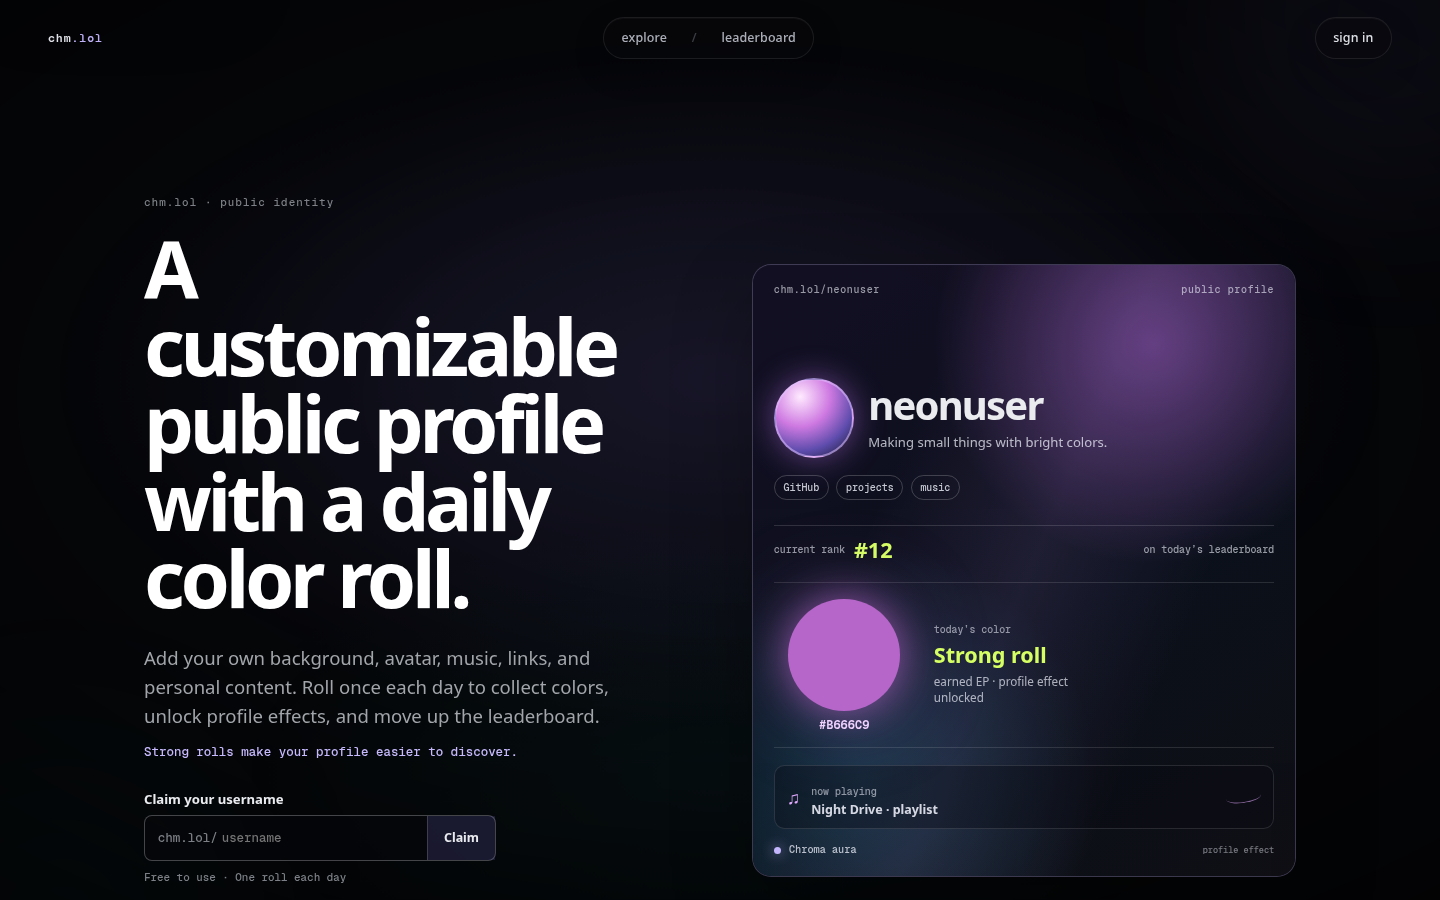
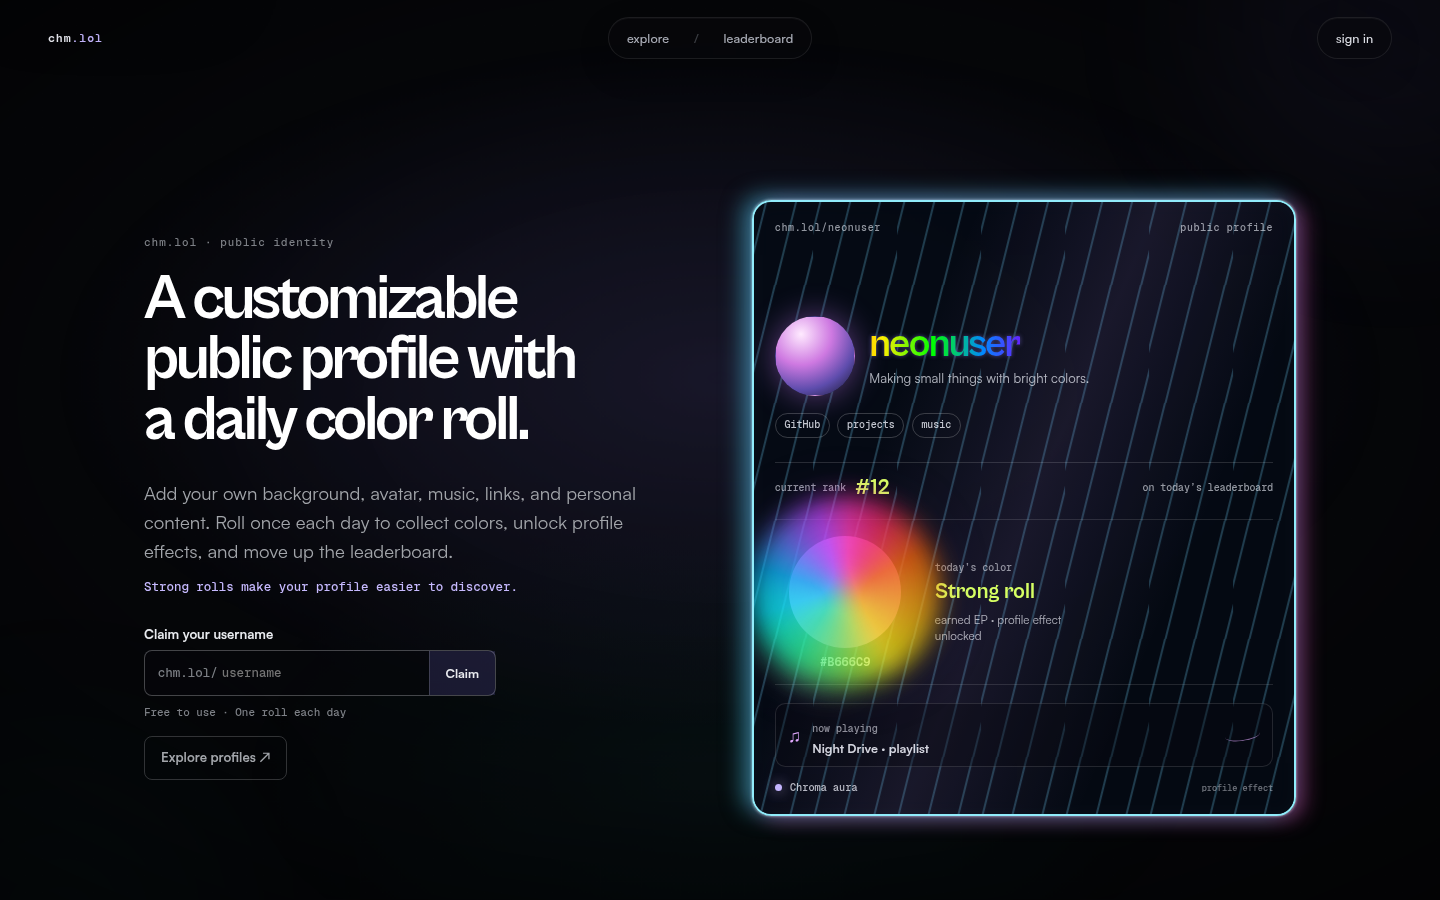
Refine homepage hero profile presentation

diff --git a/src/lib/HomeRollShowcase.svelte b/src/lib/HomeRollShowcase.svelte
@@ -1,15 +1,15 @@
-<div class="home-showcase" aria-label="A customized public profile preview">
-  <div class="home-showcase__background" aria-hidden="true"></div>
+<div class="home-showcase border-prism-anim" aria-label="A customized public profile preview">
+  <div class="home-showcase__background studio-profile-cosmetic-bg profile-effect-rain" aria-hidden="true"></div>
   <div class="home-showcase__topline"><span>chm.lol/neonuser</span><span>public profile</span></div>
   <div class="home-showcase__identity">
-    <span class="home-showcase__avatar" aria-hidden="true"></span>
-    <div><strong>neonuser</strong><p>Making small things with bright colors.</p></div>
+    <span class="home-showcase__avatar frame-diamond-anim" aria-hidden="true"></span>
+    <div><strong class="home-showcase__name name-spectrum-anim" data-text="neonuser">neonuser</strong><p>Making small things with bright colors.</p></div>
   </div>
   <div class="home-showcase__links"><span>GitHub</span><span>projects</span><span>music</span></div>
   <div class="home-showcase__rank"><span>current rank</span><strong>#12</strong><span>on today’s leaderboard</span></div>
   <div class="home-showcase__roll">
     <div class="home-showcase__color" aria-label="Today’s color, purple">
-      <span aria-hidden="true"></span><strong>#B666C9</strong>
+      <span class="home-showcase__color-orb roll-chroma-anim" aria-hidden="true"></span><strong>#B666C9</strong>
     </div>
     <div><p>today’s color</p><strong>Strong roll</strong><small>earned EP · profile effect unlocked</small></div>
   </div>
@@ -18,14 +18,14 @@
 </div>
 
 <style>
-  .home-showcase { position: relative; width: min(100%, 34rem); min-height: 32rem; padding: 1.3rem; border: 1px solid rgba(196,181,253,.28); border-radius: 1.2rem; overflow: hidden; isolation: isolate; background: rgba(10,12,18,.62); box-shadow: 0 2rem 5rem rgba(0,0,0,.28), inset 0 1px 0 rgba(255,255,255,.07); }
-  .home-showcase__background { position: absolute; inset: 0; z-index: -1; background: radial-gradient(circle at 74% 13%, rgba(207,117,255,.44), transparent 33%), radial-gradient(circle at 20% 84%, rgba(61,210,255,.19), transparent 35%), linear-gradient(145deg, #151125, #0b111d 58%, #101015); opacity: .92; }
+  .home-showcase { position: relative; width: min(100%, 34rem); min-height: 32rem; padding: 1.3rem; border-radius: 1.2rem; overflow: hidden; isolation: isolate; background: rgba(10,12,18,.62); box-shadow: 0 2rem 5rem rgba(0,0,0,.28), inset 0 1px 0 rgba(255,255,255,.07); }
+  .home-showcase__background { position: absolute; inset: 0; z-index: -1; opacity: .92; }
   .home-showcase__background::after { content: ''; position: absolute; inset: 0; background: linear-gradient(125deg, transparent 35%, rgba(205,152,255,.11), transparent 66%); transform: rotate(-12deg) scale(1.35); }
   .home-showcase__topline, .home-showcase__links, .home-showcase__rank, .home-showcase__music, .home-showcase__effect { display: flex; align-items: center; }
   .home-showcase__topline { justify-content: space-between; color: rgba(244,246,255,.6); font: 500 .62rem/1 var(--font-mono-stack); letter-spacing: .07em; text-transform: lowercase; }
   .home-showcase__identity { display: flex; align-items: center; gap: .9rem; margin-top: 5.2rem; }
-  .home-showcase__avatar { flex: 0 0 5rem; width: 5rem; height: 5rem; border: 2px solid rgba(224,193,255,.55); border-radius: 50%; background: radial-gradient(circle at 32% 22%, #ffeaff, #ce79e1 38%, #5d4cac 69%, #131426); box-shadow: 0 0 2rem rgba(203,126,255,.45); }
-  .home-showcase__identity strong { font: 700 clamp(1.7rem, 4vw, 2.5rem)/.95 var(--font-display-stack); letter-spacing: -.045em; }
+  .home-showcase__avatar { flex: 0 0 5rem; width: 5rem; height: 5rem; border-radius: 50%; background: radial-gradient(circle at 32% 22%, #ffeaff, #ce79e1 38%, #5d4cac 69%, #131426); box-shadow: 0 0 2rem rgba(203,126,255,.45); }
+  .home-showcase__name { display: inline-block; font: 700 clamp(1.7rem, 4vw, 2.5rem)/.95 var(--font-display-stack); letter-spacing: -.045em; }
   .home-showcase__identity p { margin: .45rem 0 0; color: rgba(244,246,255,.72); font-size: .82rem; }
   .home-showcase__links { flex-wrap: wrap; gap: .45rem; margin-top: 1.05rem; }
   .home-showcase__links span { padding: .4rem .55rem; border: 1px solid rgba(255,255,255,.2); border-radius: var(--radius-pill); color: rgba(244,246,255,.8); font: 500 .62rem/1 var(--font-mono-stack); }
@@ -34,7 +34,7 @@
   .home-showcase__rank span:last-child { margin-left: auto; }
   .home-showcase__roll { display: grid; grid-template-columns: 8.8rem minmax(0,1fr); align-items: center; gap: 1.2rem; margin-top: 1.3rem; padding-block: 1rem; border-top: 1px solid rgba(255,255,255,.12); border-bottom: 1px solid rgba(255,255,255,.12); }
   .home-showcase__color { display: grid; place-items: center; gap: .5rem; }
-  .home-showcase__color > span { width: 7rem; height: 7rem; border-radius: 50%; background: #b666c9; box-shadow: 0 0 2.5rem rgba(182,102,201,.75), 0 0 6rem rgba(182,102,201,.3); }
+  .home-showcase__color-orb { position: relative; z-index: 1; display: block; width: 7rem; height: 7rem; border-radius: 50%; background: #b666c9; box-shadow: 0 0 2.5rem rgba(182,102,201,.75), 0 0 6rem rgba(182,102,201,.3); }
   .home-showcase__color strong { color: #f0d3ff; font: 600 .75rem/1 var(--font-mono-stack); }
   .home-showcase__roll p, .home-showcase__music small { margin: 0; color: rgba(244,246,255,.56); font: 500 .62rem/1.2 var(--font-mono-stack); text-transform: lowercase; }
   .home-showcase__roll > div:last-child > strong { display: block; margin-top: .5rem; color: #d6ff63; font: 700 1.35rem/1 var(--font-display-stack); }
@@ -46,6 +46,6 @@
   .home-showcase__effect { gap: .5rem; margin-top: 1rem; color: rgba(244,246,255,.74); font: 500 .64rem/1 var(--font-mono-stack); }
   .home-showcase__effect > span:first-child { width: .45rem; height: .45rem; border-radius: 50%; background: #c4b5fd; box-shadow: 0 0 .8rem rgba(196,181,253,.85); }
   .home-showcase__effect small { margin-left: auto; color: rgba(244,246,255,.46); }
-  @media (max-width: 36rem) { .home-showcase { min-height: 29rem; padding: 1rem; } .home-showcase__identity { margin-top: 3.8rem; } .home-showcase__avatar { flex-basis: 4rem; width: 4rem; height: 4rem; } .home-showcase__roll { grid-template-columns: 6.8rem minmax(0,1fr); gap: .8rem; } .home-showcase__color > span { width: 5.5rem; height: 5.5rem; } .home-showcase__rank span:last-child { max-width: 7rem; text-align: right; line-height: 1.3; } }
+  @media (max-width: 36rem) { .home-showcase { min-height: 29rem; padding: 1rem; } .home-showcase__identity { margin-top: 3.8rem; } .home-showcase__avatar { flex-basis: 4rem; width: 4rem; height: 4rem; } .home-showcase__roll { grid-template-columns: 6.8rem minmax(0,1fr); gap: .8rem; } .home-showcase__color-orb { width: 5.5rem; height: 5.5rem; } .home-showcase__rank span:last-child { max-width: 7rem; text-align: right; line-height: 1.3; } }
   @media (prefers-reduced-motion: reduce) { .home-showcase * { transition: none !important; } }
 </style>

diff --git a/src/lib/HomePage.svelte b/src/lib/HomePage.svelte
@@ -131,7 +131,7 @@
   .home-page__hero { display: grid; grid-template-columns: minmax(0, 1fr) minmax(22rem, 34rem); align-items: center; gap: clamp(2rem, 7vw, 7rem); min-height: min(48rem, calc(100dvh - 5rem)); padding-block: clamp(3rem, 8vh, 7rem); }
   .home-page__copy { max-width: 38rem; }
   .home-page__eyebrow { margin: 0; color: var(--color-ink-faint); font: 500 .68rem/1.2 var(--font-mono-stack); letter-spacing: .1em; text-transform: lowercase; }
-  .home-page h1 { max-width: 34rem; margin: 1.25rem 0 0; font: 700 clamp(2.8rem, 5.5vw, 5.4rem)/.98 var(--font-display-stack); letter-spacing: -.055em; text-wrap: balance; }
+  .home-page h1 { max-width: 42rem; margin: 1.25rem 0 0; font: 700 clamp(2.7rem, 4.4vw, 4.7rem)/.96 var(--font-display-stack); letter-spacing: -.055em; text-wrap: balance; }
   .home-page__intro { max-width: 34rem; margin: 1.7rem 0 0; color: var(--color-ink-muted); font-size: clamp(1rem, 1.4vw, 1.16rem); line-height: 1.55; }
   .home-page__supporting { margin: .8rem 0 0; color: var(--color-accent-bright); font: 500 .78rem/1.4 var(--font-mono-stack); }
   .home-page__actions { display: flex; align-items: flex-end; flex-wrap: wrap; gap: 1rem 1.25rem; margin-top: 2rem; }
